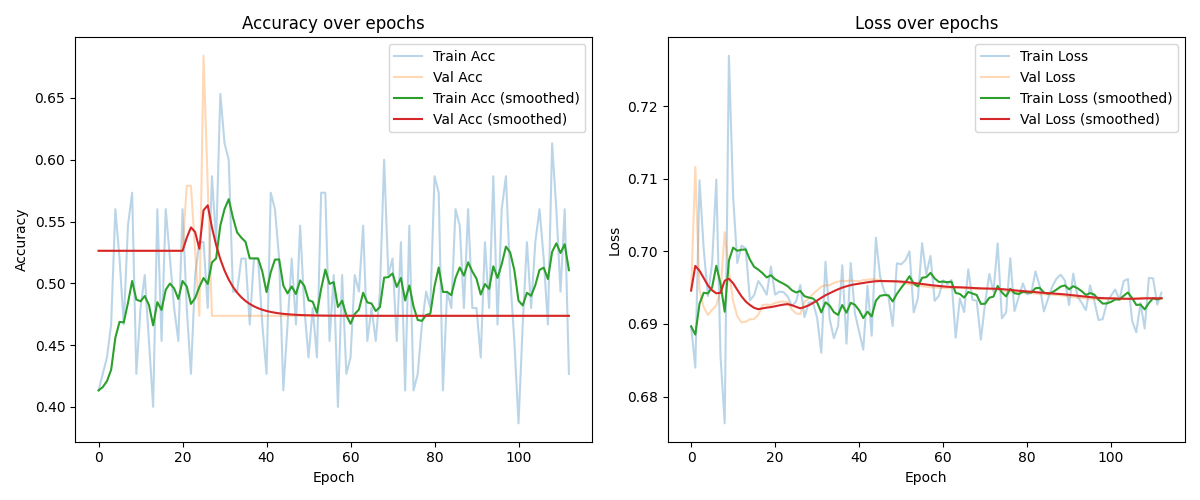
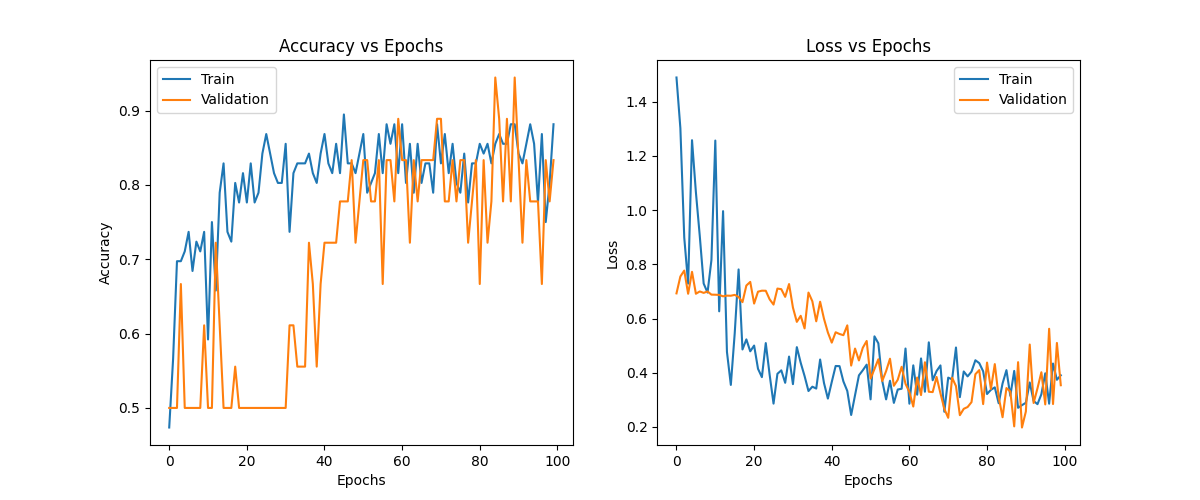
Fixed validation accuracy

diff --git a/final_part_two.py b/final_part_two.py
@@ -2,33 +2,32 @@ import os
 import numpy as np
 import matplotlib.pyplot as plt
 from tensorflow.keras.models import Sequential
-from tensorflow.keras.layers import Conv2D, MaxPool2D, Flatten, Dense, Dropout
+from tensorflow.keras.layers import Conv2D, MaxPool2D, Flatten, Dense, Dropout, BatchNormalization
 from tensorflow.keras.preprocessing.image import ImageDataGenerator
 from sklearn.utils.class_weight import compute_class_weight
+from tensorflow.keras.callbacks import EarlyStopping, ReduceLROnPlateau
+from tensorflow.keras.optimizers import Adam
 
 # -------------------------------
 # Paths and parameters
 # -------------------------------
 data_dir = "SIZE_120_rescaled_max_area_1024"
 img_size = (120, 120)
-batch_size = 16
+batch_size = 8  # smaller batch for tiny dataset
 
 # -------------------------------
-# Data augmentation
+# Aggressive Data Augmentation
 # -------------------------------
 train_datagen = ImageDataGenerator(
-    rescale=1./255,
-    validation_split=0.2,        # Split 20% for validation
-    rotation_range=20,
+    rotation_range=15,
     width_shift_range=0.1,
     height_shift_range=0.1,
-    shear_range=0.1,
     zoom_range=0.1,
-    horizontal_flip=True,
-    fill_mode='nearest'
+    brightness_range=[0.9, 1.1],
+    validation_split=0.2,
+    rescale=1./255
 )
 
-# Train and validation generators
 train_generator = train_datagen.flow_from_directory(
     data_dir,
     target_size=img_size,
@@ -50,7 +49,6 @@ val_generator = train_datagen.flow_from_directory(
 # -------------------------------
 # Compute class weights
 # -------------------------------
-classes = list(train_generator.class_indices.keys())
 y_train = train_generator.classes
 class_weights = compute_class_weight(class_weight='balanced',
                                      classes=np.unique(y_train),
@@ -59,35 +57,48 @@ class_weights_dict = dict(enumerate(class_weights))
 print("Class weights:", class_weights_dict)
 
 # -------------------------------
-# Build CNN
+# Optimized Tiny CNN
 # -------------------------------
 model = Sequential([
-    Conv2D(32, (3,3), activation='relu', input_shape=(img_size[0], img_size[1], 3)),
+    Conv2D(16, (3,3), activation='relu', input_shape=(img_size[0], img_size[1], 3)),
+    BatchNormalization(),
     MaxPool2D((2,2)),
-    Conv2D(64, (3,3), activation='relu'),
+
+    Conv2D(32, (3,3), activation='relu'),
+    BatchNormalization(),
     MaxPool2D((2,2)),
+
     Flatten(),
-    Dense(128, activation='relu'),
-    Dropout(0.5),
+    Dense(64, activation='relu'),
+    Dropout(0.35),  # stronger dropout for tiny dataset
     Dense(1, activation='sigmoid')
 ])
 
-model.compile(optimizer='adam',
+model.compile(optimizer=Adam(learning_rate=1e-4),
               loss='binary_crossentropy',
               metrics=['accuracy'])
+
+model.summary()
+
+# -------------------------------
+# Callbacks for early stopping and learning rate reduction
+# -------------------------------
+early_stop = EarlyStopping(monitor='val_loss', patience=100, restore_best_weights=True)
+reduce_lr = ReduceLROnPlateau(monitor='val_loss', factor=0.5, patience=4, min_lr=1e-6)
 
 # -------------------------------
 # Train the model
 # -------------------------------
 history = model.fit(
     train_generator,
-    epochs=50,
+    epochs=100,
     validation_data=val_generator,
-    class_weight=class_weights_dict
+    class_weight=class_weights_dict,
+    callbacks=[early_stop, reduce_lr]
 )
 
 # -------------------------------
-# Plot results
+# Plot training history
 # -------------------------------
 plt.figure(figsize=(12,5))
 plt.subplot(1,2,1)
